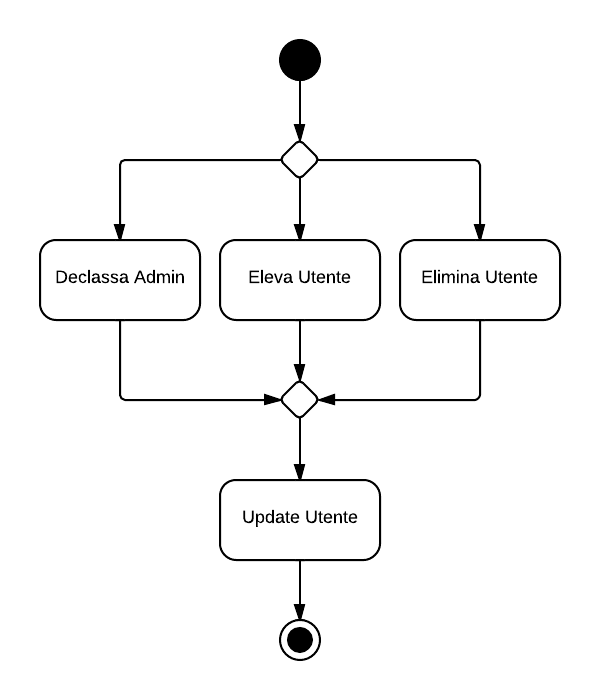
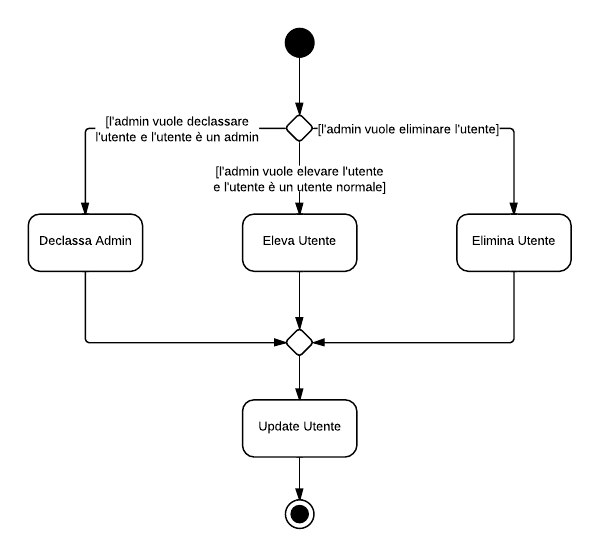
Finiti diagrammi di attività per sistema MaaP

diff --git a/documenti/SpecificaTecnica/capitolo-diagrammi-di-attivita.tex b/documenti/SpecificaTecnica/capitolo-diagrammi-di-attivita.tex
@@ -1,12 +1,11 @@
 \section{Diagrammi di attività}
 
-Vengono in seguito illustrati i diagrammi di attività prodotti durante la progettazione architetturale, i quali descrivono le iterazioni dell'utente con il sistema \glossario{MaaP}. È stato scelto di dividere i diagrammi in tre categorie principali, in modo analogo a quanto fatto nella descrizione dei casi d'uso dell'\textit{Analisi dei requisiti}:
+Vengono in seguito illustrati i diagrammi di attività prodotti durante la progettazione architetturale, i quali descrivono le iterazioni dell'utente con il sistema \glossario{MaaP}. È stato scelto di dividere i diagrammi in due categorie principali, in modo analogo a quanto fatto nella descrizione dei casi d'uso dell'\textit{Analisi dei requisiti}:
 
 \begin{itemize}
 
 	\item \textbf{Applicazione \glossario{MaaP}}, in cui verranno descritte le iterazioni che un utente può fare all'interno di un'applicazione generata dal \glossario{framework};
-	\item \textbf{\glossario{MaaP} \glossario{framework}}, in cui vengono descritte le azioni che uno sviluppatore può effettuare utilizzando il \glossario{framework};
-	\item \textbf{\glossario{MaaS}}, in cui verranno descritte le iterazioni all'interno del suddetto servizio web.
+	\item \textbf{Servizio \glossario{MaaS}}, in cui verranno descritte le iterazioni all'interno del suddetto servizio web.
 
 \end{itemize}
 Inizialmente per ogni categoria verrà fornito uno schema ad alto livello, per poi andare sempre più nel dettaglio tramite sotto-diagrammi più specifici. Per comodità di visualizzazione le attività che verranno \textit{esplose} sono marcate in grassetto. 
@@ -15,11 +14,14 @@ Al fine di rendere il diagramma leggibile abbiamo considerato implicito il fatto
 
 \subsection{Applicazione MaaP}
 
+Vengono di seguito descritte tutte le iterazioni che un utente può effettuare con un'applicazione generata dal \glossario{framework} \glossario{MaaP}.
+
+
 \subsubsection{Attività principali}
 
 \begin{figure}[H]
 \centering
-\includegraphics[scale=0.12]{uml/MaaP - Attivita principali.png}
+\includegraphics[scale=0.7]{uml/MaaP - Attivita principali.png}
 \caption{Diagramma di attività - Attività principali di un'applicazione MaaP}
 \end{figure}
 
@@ -59,7 +61,7 @@ L'utente si trova all'interno della pagina di registrazione e sostanzialmente de
 
 \begin{figure}[H]
 \centering
-\includegraphics[scale=0.2]{uml/MaaP - Recupera password.png}
+\includegraphics[scale=0.1]{uml/MaaP - Recupera password.png}
 \caption{Diagramma di attività - Recupero password}
 \end{figure}
 
@@ -69,7 +71,7 @@ L'utente si trova all'interno della pagina di recupero password, la quale presen
 
 \begin{figure}[H]
 \centering
-\includegraphics[scale=0.2]{uml/MaaP - Esegui reset password.png}
+\includegraphics[scale=0.1]{uml/MaaP - Esegui reset password.png}
 \caption{Diagramma di attività - Reset della password dell'utente}
 \end{figure}
 
@@ -89,7 +91,7 @@ L'utente, che precedentemente avrà effettuato la registrazione al sistema, acce
 
 \begin{figure}[H]
 \centering
-\includegraphics[scale=0.2]{uml/MaaP - Modifica profilo.png}
+\includegraphics[scale=0.3]{uml/MaaP - Modifica profilo.png}
 \caption{Diagramma di attività - Modifica profilo utente}
 \end{figure}
 
@@ -99,7 +101,7 @@ L'utente autenticato accede all'interno della propria pagina profilo, dalla qual
 
 \begin{figure}[H]
 \centering
-\includegraphics[scale=0.2]{uml/MaaP - Index-page.png}
+\includegraphics[scale=0.5]{uml/MaaP - Index-page.png}
 \caption{Diagramma di attività - Visualizzazione index-page della Collection selezionata}
 \end{figure}
 
@@ -126,7 +128,7 @@ Se l'utente dispone dei privilegi di admin può inoltre:
 
 \begin{figure}[H]
 \centering
-\includegraphics[scale=0.2]{uml/MaaP - Show-page.png}
+\includegraphics[scale=0.5]{uml/MaaP - Show-page.png}
 \caption{Diagramma di attività - Visualizzazione show-page del Document selezionato}
 \end{figure}
 
@@ -152,8 +154,61 @@ Se l'utente possiede i privilegi di admin può inoltre:
 
 \begin{figure}[H]
 \centering
-\includegraphics[scale=0.2]{uml/MaaP - Modifica document.png}
+\includegraphics[scale=0.5]{uml/MaaP - Modifica document.png}
 \caption{Diagramma di attività - Modifica del Document selezionato}
 \end{figure}
 
 L'utente con privilegi di scrittura può modificare ogni singolo attributo del \glossario{Document} selezionato, editando i rispettivi campi di testo. Una volta che ha terminato le modifiche preme il pulsante di \textit{update}; il sistema \glossario{MaaP} verificherà che le modifiche apportate siano corrette e rispettino i vincoli del \glossario{database}. In ogni momento l'utente può comunque decidere di annullare le modifiche e tornare alla pagina precedente.
+
+\subsubsection{Apri pagina gestione utenti}
+
+\begin{figure}[H]
+\centering
+\includegraphics[scale=0.3]{uml/MaaP - Apri pagina gestione utenti.png}
+\caption{Diagramma di attività - Pagina di gestione degli utenti}
+\end{figure}
+
+Un admin dell'applicazione può accedere a una pagina in cui poter gestire gli utenti. Essa consiste fondamentalmente in una \glossario{index-page} contenente la lista di tutti gli utenti presenti nel sistema. L'admin può da questa pagina selezionare un utente, e visualizzare quindi la sua relativa \glossario{show-page}, o crearne uno nuovo aprendo la pagina di creazione.
+
+\subsubsection{Apri show-page utente}
+
+\begin{figure}[H]
+\centering
+\includegraphics[scale=0.4]{uml/MaaP - Apri show-page utente.png}
+\caption{Diagramma di attività - Pagina di visualizzazione di un utente}
+\end{figure}
+
+In questa pagina l'admin visualizza la \glossario{show-page} dell'utente selezionato e può compiere le seguenti operazioni:
+
+\begin{itemize}
+
+	\item Se l'utente selezionato è un admin può declassarlo e portarlo a livello di utente normale. Naturalmente non può declassare se stesso e il \textit{super-admin}, in modo da far sì che in qualsiasi momento sia presente almeno un admin nel sistema;
+	\item Se l'utente non è un admin può elevarlo da utente normale a livello di admin;
+	\item Eliminare l'utente selezionato dal sistema.
+
+\end{itemize}
+
+Il sistema \glossario{MaaP} si occuperò di apportare tutte le modifiche effettuate dall'admin al \glossario{database} delle credenziali.
+
+\subsubsection{Crea un nuovo utente}
+
+\begin{figure}[H]
+\centering
+\includegraphics[scale=0.4]{uml/MaaP - Crea nuovo utente.png}
+\caption{Diagramma di attività - Pagina di creazione di un nuovo utente}
+\end{figure}
+
+L'admin entra in un'apposita pagina di creazione di un nuovo utente e al suo interno può definire:
+
+\begin{itemize}
+
+	\item L'indirizzo email del nuovo utente;
+	\item La password del nuovo utente;
+	\item Il livello del nuovo utente, che potrà essere o utente normale o admin;
+
+\end{itemize}
+
+Una volta completate le modifiche l'utente può decidere di confermare o annullare le modifiche, premendo i relativi pulsaanti. Il sistema \glossario{MaaP}, nel caso in cui l'utente abbia deciso di confermare le modifiche, si occuperà di inserire nel \glossario{database} delle credenziali il nuovo utente creato.
+
+\subsection{Servizio MaaS}
+

diff --git a/documenti/SpecificaTecnica/download_uml.py b/documenti/SpecificaTecnica/download_uml.py
@@ -42,7 +42,6 @@ lucidchart.download_image("481c-f134-52eadfb8-b89d-38f60a009f36", "uml/diagramma
 
 lucidchart.download_image("4d01-fab4-52dac262-8caf-6d3b0a0044cb", "uml/MaaP - Apri pagina gestione utenti.png")
 lucidchart.download_image("43ed-3f84-52d93755-a6c3-500d0a004790", "uml/MaaP - Modifica profilo.png")
-
 lucidchart.download_image("4bdc-1928-52dac052-9e58-4fc30a004790", "uml/MaaP - Modifica document.png")
 lucidchart.download_image("4c35-b374-52d8f514-8852-77310a00c655", "uml/MaaP - Attivita principali.png")
 lucidchart.download_image("440c-f4bc-52dabbcb-a162-0c630a004790", "uml/MaaP - Show-page.png")
@@ -53,6 +52,7 @@ lucidchart.download_image("4023-a820-52d92c89-96e5-4fff0a00d7c9", "uml/MaaP - Re
 lucidchart.download_image("4bba-c714-52d92c1c-8bb1-46e50a0044cb", "uml/MaaP - Effettua registrazione.png")
 lucidchart.download_image("4580-bc10-52dac665-b8a4-5aa60a0044cb", "uml/MaaP - Apri show-page utente.png")
 lucidchart.download_image("4611-1c34-52dac3ad-9b7e-22830a00d361", "uml/MaaP - Crea nuovo utente.png")
+lucidchart.download_image("")
 
 #uml Scenari 
 
